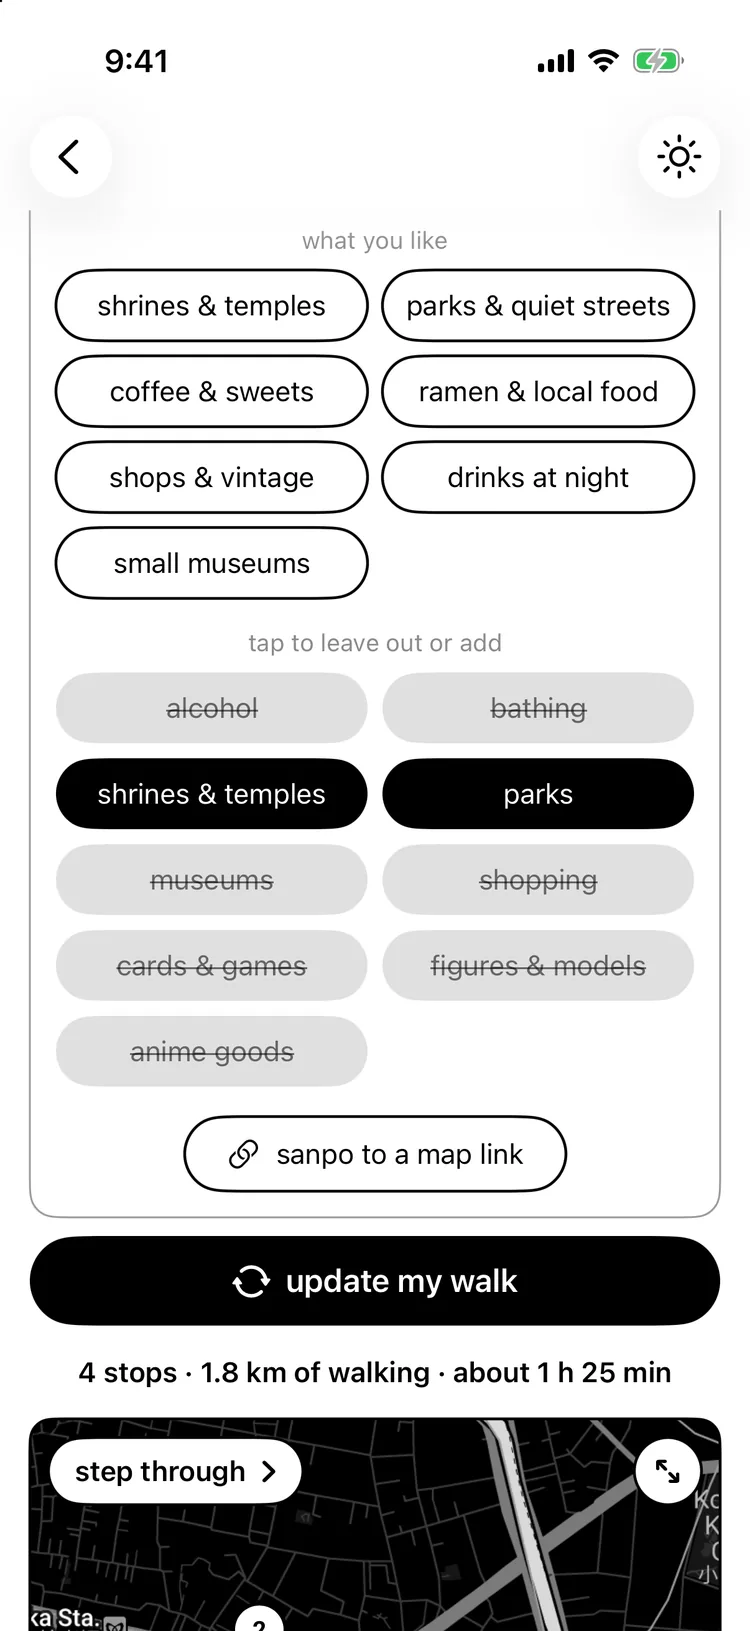
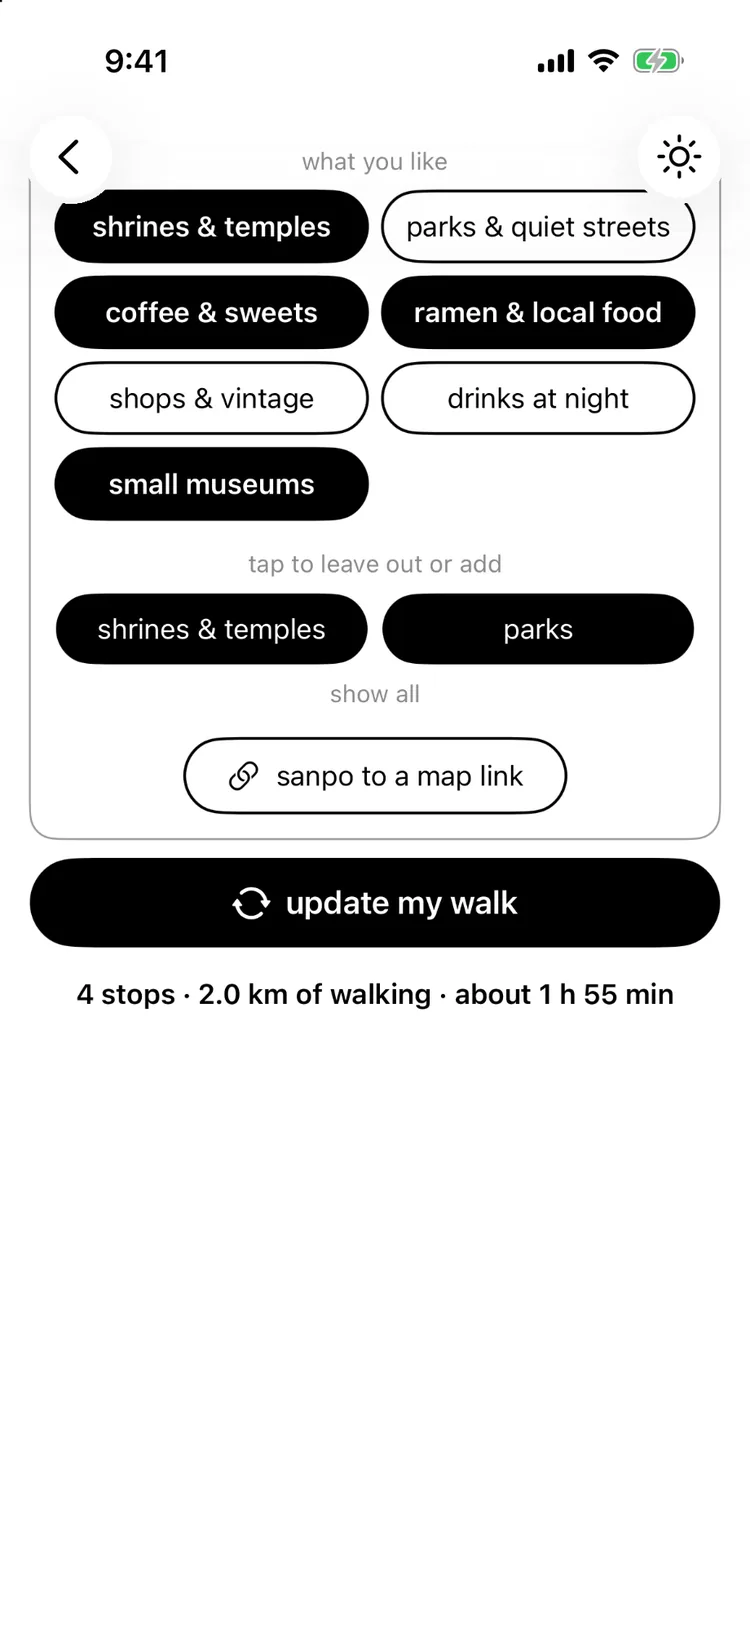
Demo: customize panel scrolled to 'update my walk' from the lunch walk (pass 4)
Claude-Session: https://claude.ai/code/session_01FxSsQnwZVufiE1aJZBi47o

diff --git a/demo.js b/demo.js
@@ -66,7 +66,7 @@
     ] },
     w3: { alt: 'Customize, scrolled: what to leave out, and update my walk', up: 'w2b', hot: [
       h('Back', BACK, 'home'),
-      h('Update my walk', [49, 1985, 1105, 150], 'w4', true)
+      h('Update my walk', [48, 1379, 1109, 142], 'w4', true)
     ] },
     w4: { alt: 'The lunch walk: four stops on a map with short, medium and long', down: 'w5', hot: [
       h('Back', BACK, 'home'),
